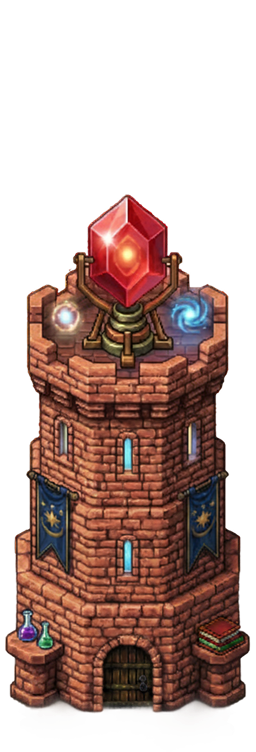
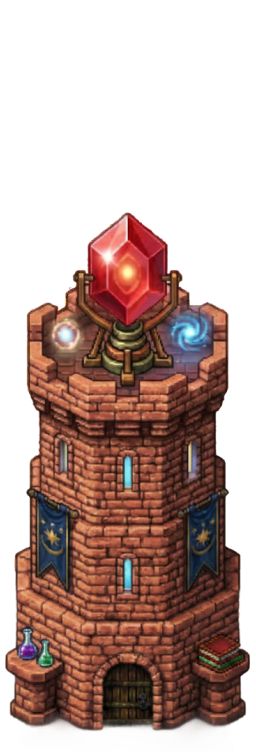
Add per-tower drop shadows from separate *-shadow.png sprites
Render each tower with an optional shadow sprite drawn behind it,
anchored at the tower base. Shadow dimensions, offset, and opacity
are configured per tower type in TOWER_SHADOW, so archer/mage/cannon
can each be tuned independently. Towers without a *-shadow.png simply
render with no shadow.

diff --git a/src/engine/mapRenderer.ts b/src/engine/mapRenderer.ts
@@ -13,6 +13,7 @@ import {
   TILE_GAP, TILE_RADIUS,
   GRID_OFFSET_X, GRID_OFFSET_Y,
   TOWER_FOOTPRINT,
+  TOWER_SHADOW,
 } from '../constants';
 
 // ── Grid configuration ────────────────────────────────────────────────────────
@@ -363,15 +364,37 @@ function drawTowerPlaceholder(
   type: TowerType,
   h:    ReturnType<typeof makeHelpers>,
   img?: HTMLImageElement,
+  shadowImg?: HTMLImageElement,
 ) {
   const FP = TOWER_FOOTPRINT;
   // Centre of the FP×FP footprint block
   const [cx, cy] = h.perspPoint(col + FP / 2, row + FP / 2);
   const drawW = TOWER_W * FP;
 
+  // Tower draw box: bottom-anchored at the footprint centre.
+  const drawX = cx - drawW / 2;
+  const drawY = cy - TOWER_H + 50;
+
   if (img) {
-    // Bottom of sprite sits slightly below the footprint centre
-    ctx.drawImage(img, cx - drawW / 2, cy - TOWER_H + 50, drawW, TOWER_H);
+    // 1. Drop shadow (separate *-shadow.png), offset from the tile centre and
+    //    drawn semi-transparent — rendered BEHIND the tower sprite.
+    if (shadowImg) {
+      // Per-tower shadow: anchored at the tower's base (bottom of the sprite
+      // box) using its configured height, then nudged by the offsets.
+      const s = TOWER_SHADOW[type];
+      const shadowBaseY = drawY + TOWER_H - s.h;
+      ctx.save();
+      ctx.globalAlpha = s.opacity;
+      ctx.drawImage(
+        shadowImg,
+        drawX + s.offsetX,
+        shadowBaseY + s.offsetY,
+        s.w, s.h,
+      );
+      ctx.restore();
+    }
+    // 2. Tower sprite, centred on the tile as normal.
+    ctx.drawImage(img, drawX, drawY, drawW, TOWER_H);
     return;
   }
 
@@ -526,8 +549,9 @@ export function drawTowerSprite(
   tower:      Tower,
   gridConfig: GridConfig = DEFAULT_GRID_CONFIG,
   img?:       HTMLImageElement,
+  shadowImg?: HTMLImageElement,
 ): void {
-  drawTowerPlaceholder(ctx, tower.col, tower.row, tower.type, makeHelpers(gridConfig), img);
+  drawTowerPlaceholder(ctx, tower.col, tower.row, tower.type, makeHelpers(gridConfig), img, shadowImg);
 }
 
 /** Draw the sell-hover outline over a tower's footprint. Call after all entity sprites. */

diff --git a/src/components/GameCanvas.tsx b/src/components/GameCanvas.tsx
@@ -17,6 +17,13 @@ const TOWER_SPRITE_FILE: Record<TowerType, string> = {
   mage:   'mage.png',
   cannon: 'cannon.png',
 };
+// Optional drop-shadow sprite per tower, drawn behind the tower. Files that
+// don't exist yet simply fail to load and the tower renders with no shadow.
+const TOWER_SHADOW_FILE: Record<TowerType, string> = {
+  arrow:  'archer-shadow.png',
+  mage:   'mage-shadow.png',
+  cannon: 'cannon-shadow.png',
+};
 import { LEVEL1 } from '../data/level1';
 import type { Enemy } from '../engine/enemy';
 import { createEnemy, updateEnemy, enemyGridPos } from '../engine/enemy';
@@ -66,6 +73,7 @@ export function GameCanvas({
   const bgImageRef       = useRef<HTMLImageElement | null>(null);
   const skeletonImgRef   = useRef<HTMLImageElement | null>(null);
   const towerImagesRef   = useRef<Partial<Record<TowerType, HTMLImageElement>>>({});
+  const towerShadowImagesRef = useRef<Partial<Record<TowerType, HTMLImageElement>>>({});
   const projImagesRef      = useRef<Partial<Record<TowerType, HTMLImageElement>>>({});
   const effectImagesRef    = useRef<Partial<Record<TowerType, HTMLImageElement>>>({});
   const hitEffectsRef      = useRef<HitEffect[]>([]);
@@ -183,7 +191,7 @@ export function GameCanvas({
     for (const tower of towersRef.current) {
       entities.push({
         sortRow: tower.row + TOWER_FOOTPRINT / 2,
-        draw: () => drawTowerSprite(ctx, tower, gridConfigRef.current, towerImagesRef.current[tower.type]),
+        draw: () => drawTowerSprite(ctx, tower, gridConfigRef.current, towerImagesRef.current[tower.type], towerShadowImagesRef.current[tower.type]),
       });
     }
     for (const enemy of enemiesRef.current) {
@@ -511,6 +519,17 @@ export function GameCanvas({
         towerImagesRef.current = { ...towerImagesRef.current, [type]: img };
       };
       // on error: leave undefined → drawTowerPlaceholder falls back to the circle placeholder
+      img.src = `/assets/towers/${file}`;
+    });
+  }, []);
+
+  useEffect(() => {
+    (Object.entries(TOWER_SHADOW_FILE) as [TowerType, string][]).forEach(([type, file]) => {
+      const img = new Image();
+      img.onload = () => {
+        towerShadowImagesRef.current = { ...towerShadowImagesRef.current, [type]: img };
+      };
+      // on error (file not added yet): leave undefined → tower renders with no shadow
       img.src = `/assets/towers/${file}`;
     });
   }, []);

diff --git a/src/constants.ts b/src/constants.ts
@@ -21,6 +21,21 @@ export const TOWER_FIRE_RATE_CANNON = 2500;
 export const TOWER_SELL_REFUND = 0.5;   // fraction of cost returned on sell
 export const TOWER_FOOTPRINT   = 2;     // tiles per side (1 = single tile, 2 = 2×2)
 
+// Tower drop shadow — a separate *-shadow.png drawn behind the tower sprite,
+// anchored at the tower base, offset and sized per tower type.
+export interface TowerShadowConfig {
+  w:       number;   // draw width  (px)
+  h:       number;   // draw height (px)
+  offsetX: number;   // px right of the tower draw position
+  offsetY: number;   // px down  of the tower draw position
+  opacity: number;   // globalAlpha applied to the shadow sprite
+}
+export const TOWER_SHADOW: Record<import('./types').TowerType, TowerShadowConfig> = {
+  arrow:  { w: 230, h: 200, offsetX: 0, offsetY: -5, opacity: 1 },
+  mage:   { w: 230, h: 170, offsetX: 0, offsetY: 0, opacity: 1 },
+  cannon: { w: 230, h: 181, offsetX: 0, offsetY: 0, opacity: 1 },
+};
+
 // Projectiles — damage, speed (tiles/sec), effects
 export const TOWER_DAMAGE_ARROW   = 25;
 export const TOWER_DAMAGE_MAGE    = 15;